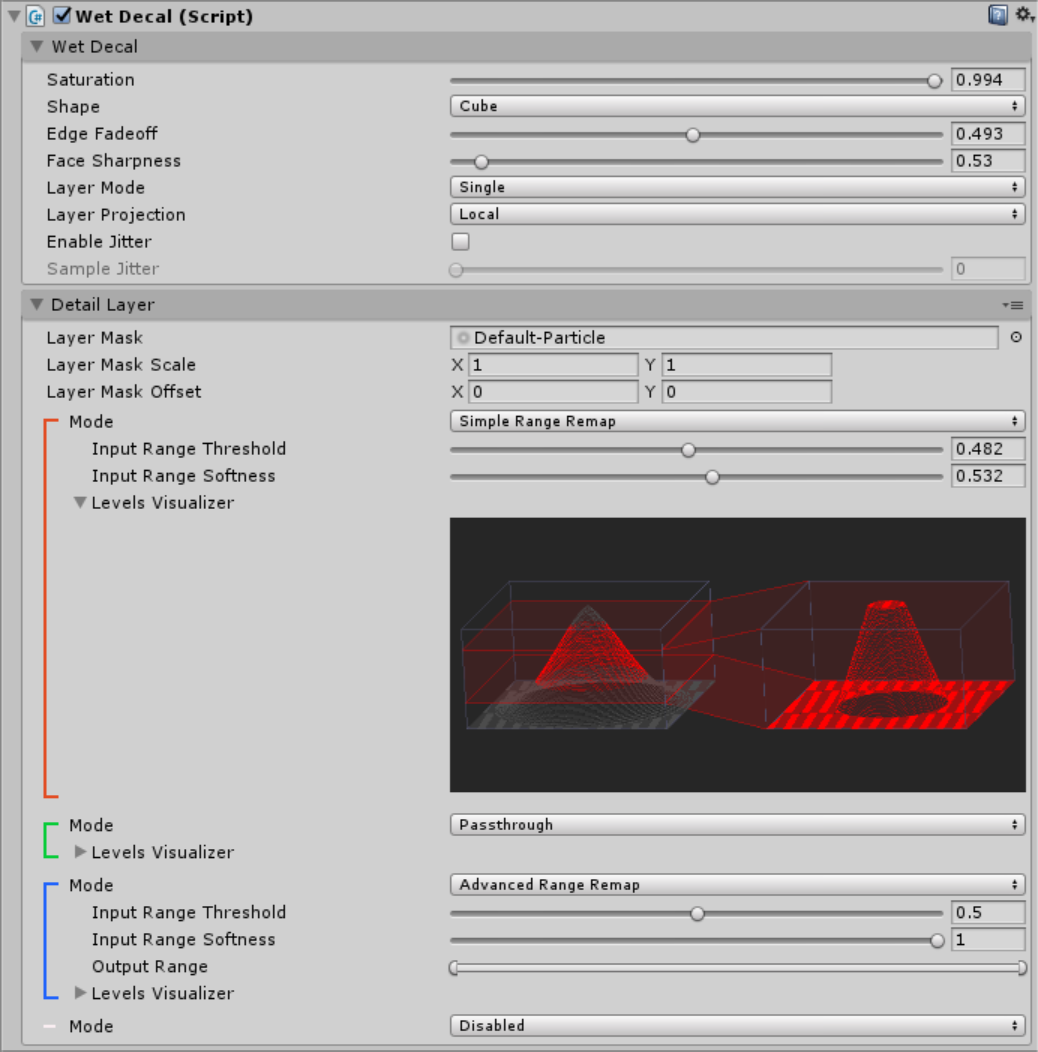
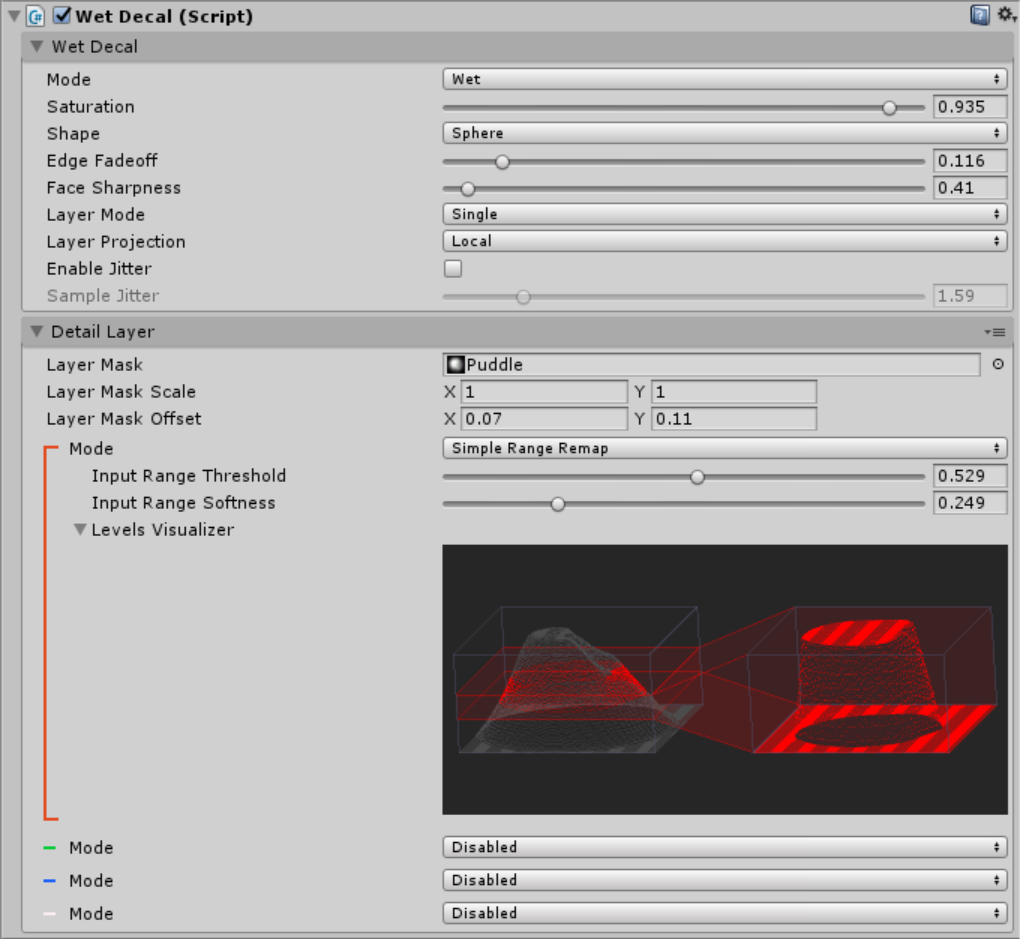
Modified docs to mention dry mode

diff --git a/docs/Reference/WetDecal.md b/docs/Reference/WetDecal.md
@@ -10,6 +10,10 @@ This component creates a single wet decal in the scene.
 
 This section contains the core settings for the decal.
 
+#### Mode
+
+Can be set to `Wet` or `Dry`. When the decal is set to `Wet` mode the output values will increase surface wetness. When the decal is set to `Dry` mode the output values will be multiplied with the previously generated wet values, decreasing surface wetness.
+
 #### Saturation
 
 Saturation represents the overall "wetness" of the decal. Values from 0 to ~0.8 represent water building up within the surface, providing the effect of the surface getting progressively more damp. Values from ~0.8 to 1 represent oversaturation - where a thin layer of water has built up over the surface to form a shallow puddle.
